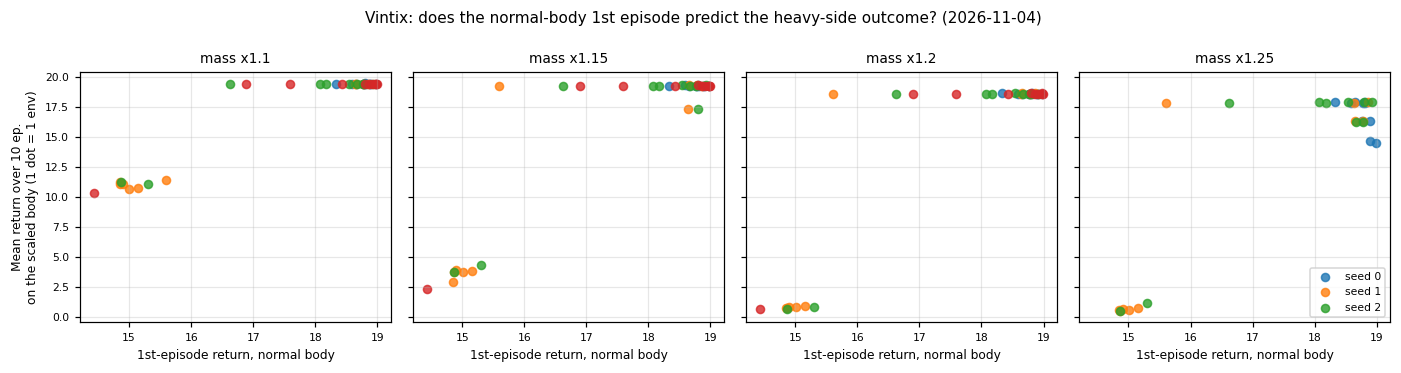
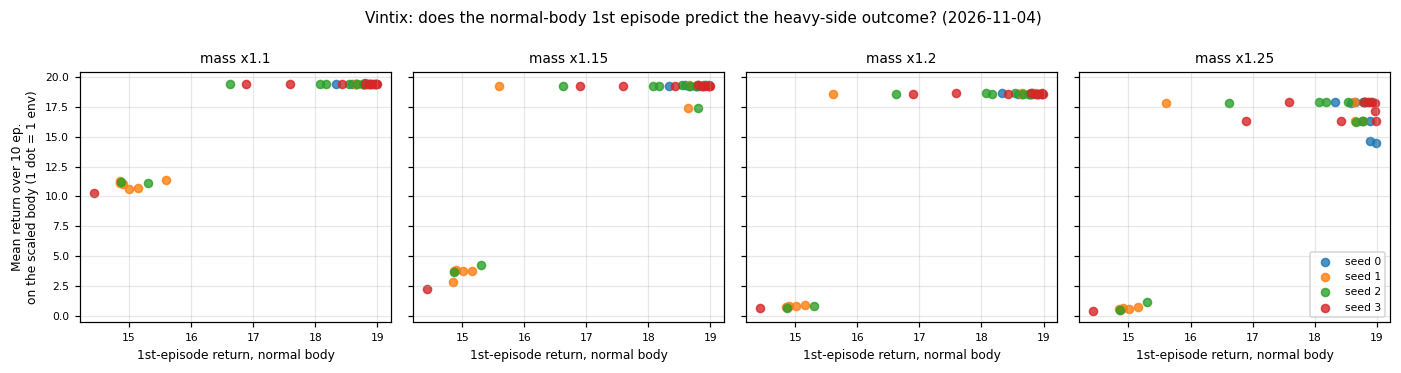
go1_body_scale_zeroshot: at 1.25x some walking-side envs fall only in episode 1 then walk; pre-registered prediction 69/70 (autopilot tick)

diff --git a/vintix_go2/go1_body_scale_zeroshot/make_figures.py b/vintix_go2/go1_body_scale_zeroshot/make_figures.py
@@ -191,6 +191,54 @@ def plot_first_episode_vs_heavy(axis: str, heavy_scales: List[float], max_episod
     return out
 
 
+def plot_completion_by_episode(axis: str, scales: List[float], max_episodes: int, out: Path) -> Path:
+    """Completion rate at each episode index (pooled over seeds x envs), Vintix vs the transferred expert.
+
+    Vintix keeps earlier episodes in its context, so a rise after episode 1 is in-context adaptation;
+    the expert has no memory, so its curve should stay flat.
+    """
+    import matplotlib
+
+    matplotlib.use("Agg")
+    import matplotlib.pyplot as plt
+
+    fig, axes = plt.subplots(1, len(scales), figsize=(3.0 * len(scales), 3.2), sharey=True, squeeze=False)
+    for j, s in enumerate(scales):
+        ax = axes[0, j]
+        n_seeds = {}
+        for policy in ("vintix", "expert"):
+            done = []
+            for point in sorted((RESULTS_DIR / policy / axis).glob(f"s{s:.3f}".replace(".", "p") + "_seed*")):
+                f = point / f"{OUTPUT_STEM}_episodes.csv"
+                if not f.exists():
+                    continue
+                by_env: Dict[int, List[dict]] = defaultdict(list)
+                for r in csv.DictReader(open(f)):
+                    by_env[int(r["env_index"])].append(r)
+                for env_rows in by_env.values():
+                    ep = sorted(env_rows, key=lambda r: int(r["episode_number"]))[:max_episodes]
+                    if len(ep) == max_episodes:
+                        done.append([float(r["episode_length"]) >= 1000 for r in ep])
+            if done:
+                n_seeds[policy] = len(done) // 10
+                ax.plot(range(1, max_episodes + 1), np.array(done).mean(0) * 100, "o-", color=COLORS[policy], ms=3,
+                        label=LABELS[policy].split(" (")[0])
+        ax.set_title(f"{axis} x{s:g}  (seeds: Vintix {n_seeds.get('vintix', 0)}, expert {n_seeds.get('expert', 0)})",
+                     fontsize=8)
+        ax.set_xlabel("episode index", fontsize=8)
+        ax.set_ylim(-5, 105)
+        ax.grid(True, alpha=0.3)
+        ax.tick_params(labelsize=7)
+    axes[0, 0].set_ylabel("Completed [%] (seeds x envs pooled)", fontsize=8)
+    axes[0, -1].legend(fontsize=7, loc="center right")
+    fig.suptitle(f"Completion at each episode index near the heavy boundary ({time.strftime('%Y-%m-%d')})", fontsize=10)
+    fig.tight_layout()
+    out.parent.mkdir(parents=True, exist_ok=True)
+    fig.savefig(out, dpi=110, bbox_inches="tight")
+    plt.close(fig)
+    return out
+
+
 def main() -> None:
     p = argparse.ArgumentParser()
     p.add_argument("--max_episodes", type=int, default=10)
@@ -206,6 +254,8 @@ def main() -> None:
     for axis in ("mass", "size"):
         print(plot_first_episode_vs_heavy(axis, [1.1, 1.15, 1.2, 1.25], args.max_episodes,
                                           FIG_DIR / f"vintix_{axis}_first_episode_predictor_{args.tag}.png"))
+        print(plot_completion_by_episode(axis, [1.15, 1.2, 1.25, 1.3], args.max_episodes,
+                                         FIG_DIR / f"{axis}_completion_by_episode_{args.tag}.png"))
 
 
 if __name__ == "__main__":
